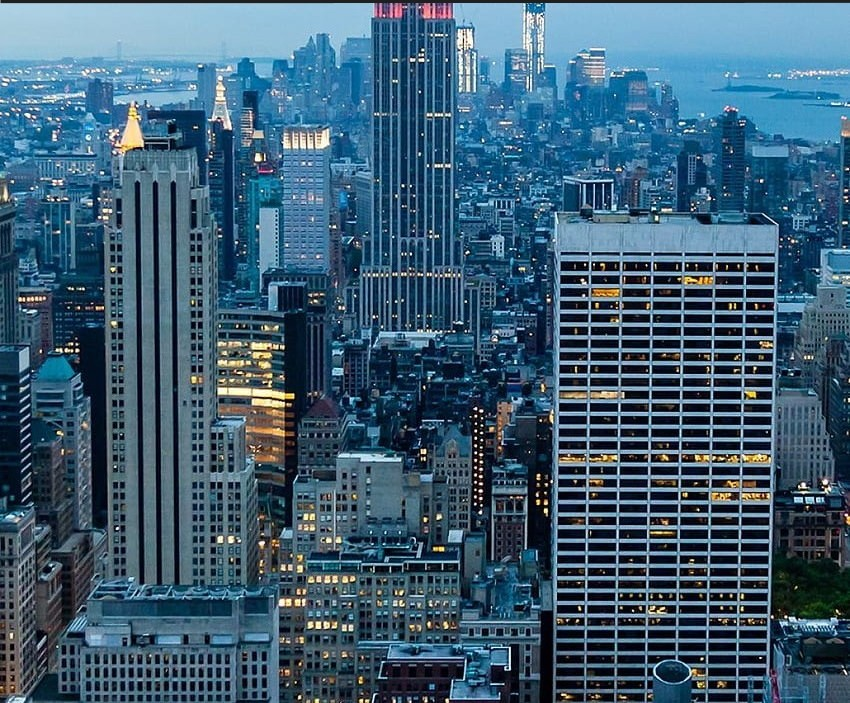
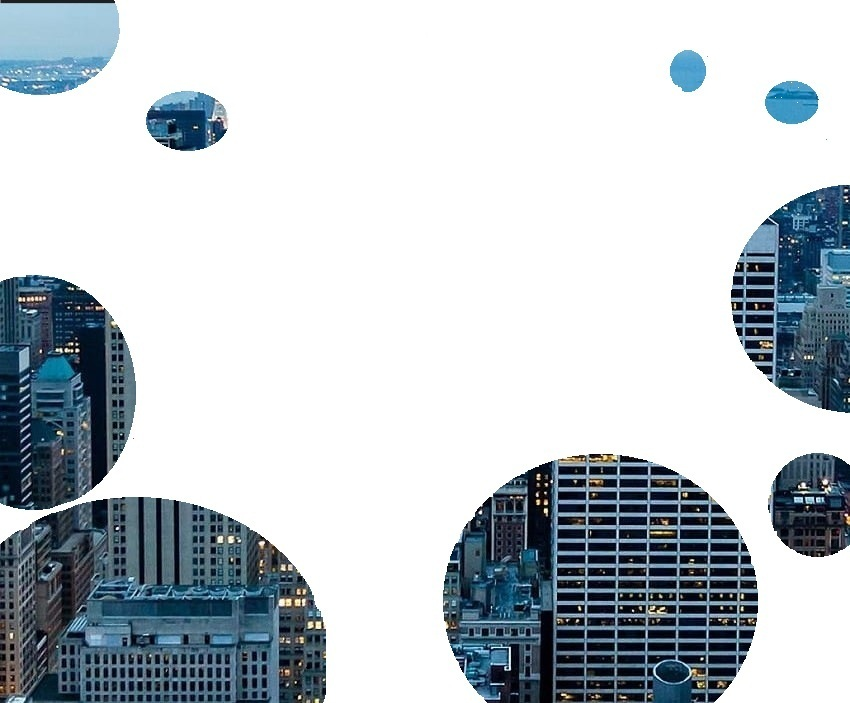
Change the background and make a backup of original background

diff --git a/index.html b/index.html
@@ -7,6 +7,10 @@
     <!-- Required meta tags -->
     <meta charset="utf-8" />
     <meta name="viewport" content="width=device-width, initial-scale=1" />
+    <link
+      href="https://cdn.jsdelivr.net/npm/bootstrap@5.3.0/dist/css/bootstrap.min.css"
+      rel="stylesheet"
+    />
 
     <!-- Web Components for shared navbar and footer layout -->
     <script type="module" src="/src/components/site-navbar.js"></script>

diff --git a/styles/style.css b/styles/style.css
@@ -10,7 +10,7 @@ body {
   background-image: url("/images/city.jpg");
   background-repeat: no-repeat;
   background-size: cover;
-  color: white;
+  color: black;
   text-align: center;
   margin: 0;
   min-height: 100vh;
